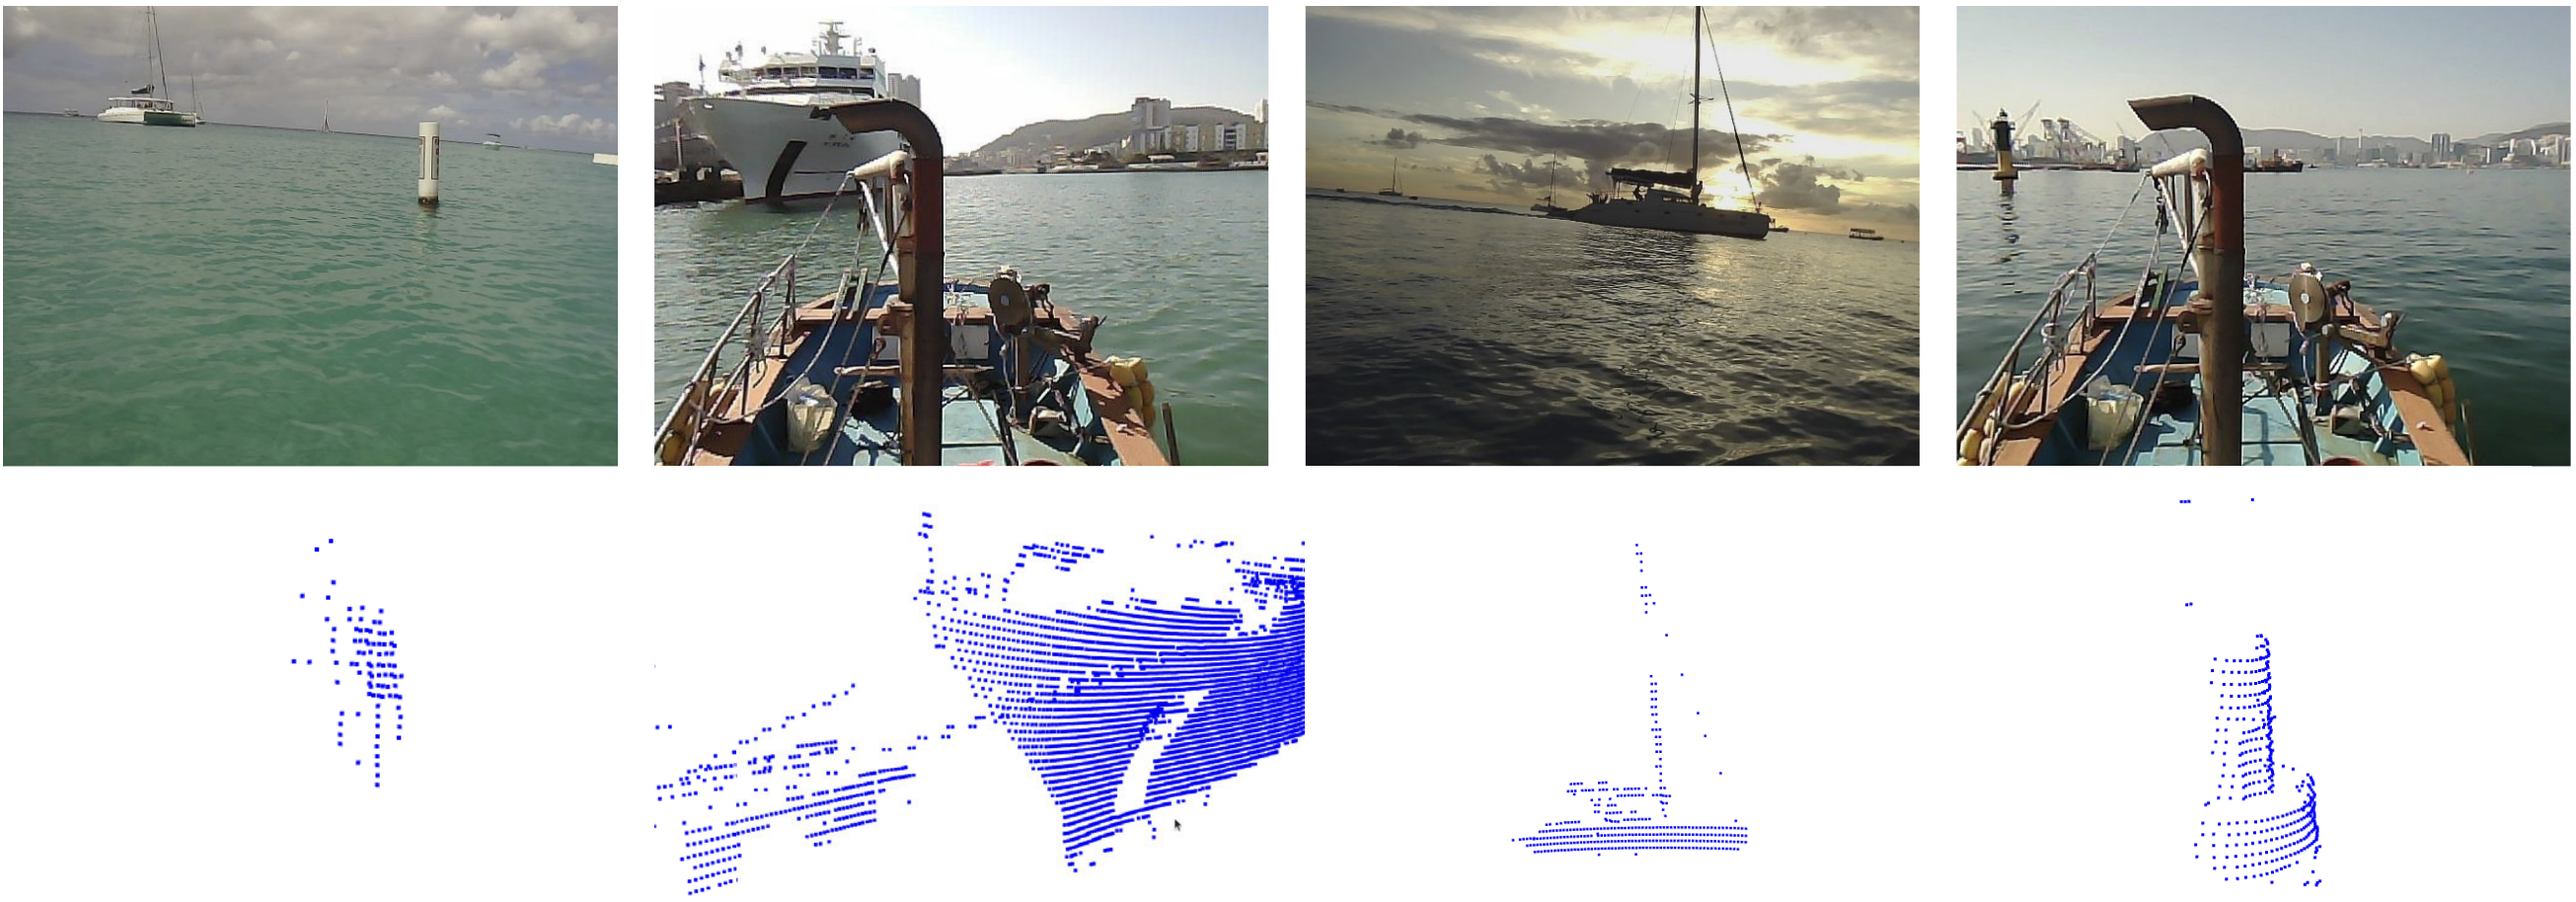
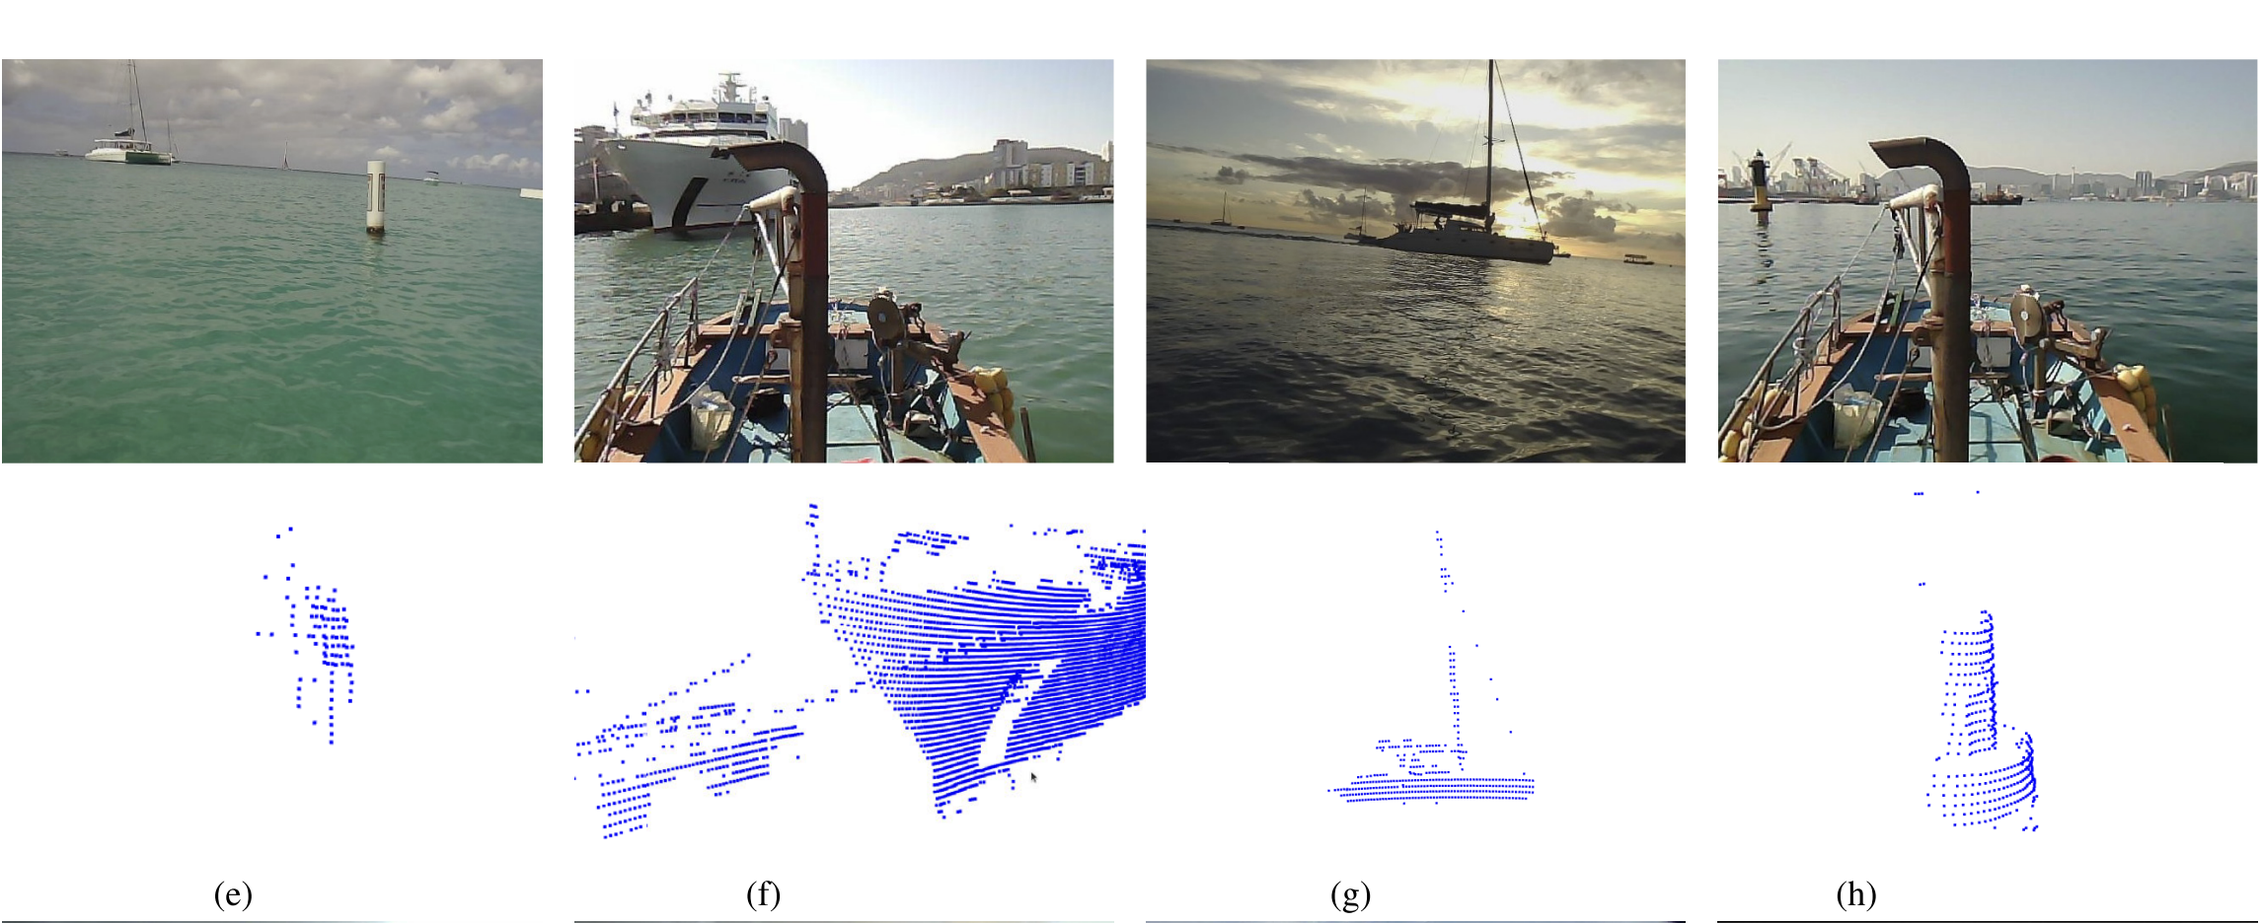
up

diff --git a/_pages/about.md b/_pages/about.md
@@ -106,7 +106,7 @@ dolphin,
 seepersea,
 llmswarm,
 learning,
-<!-- jeong2024multimodal, -->
+jeong2024multimodal,
 starblocks,
 9738480,
 9341312,
